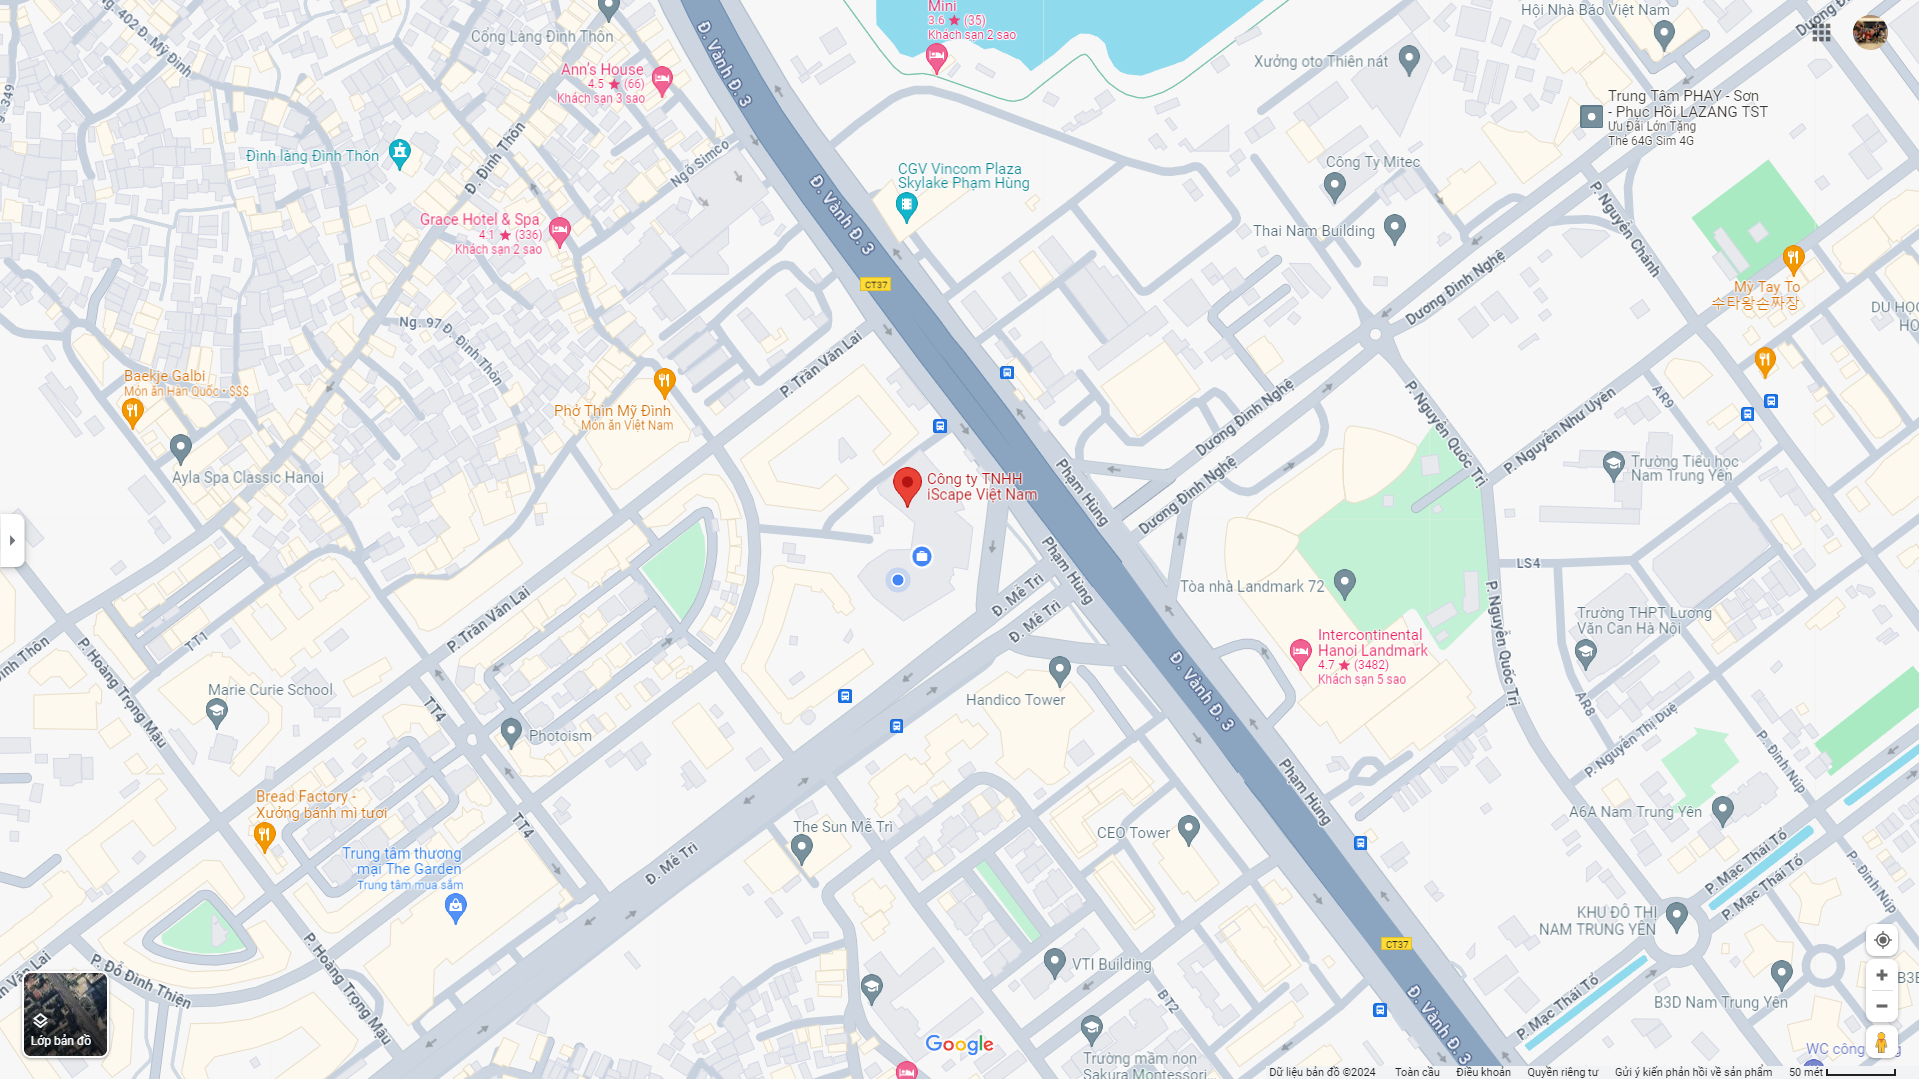
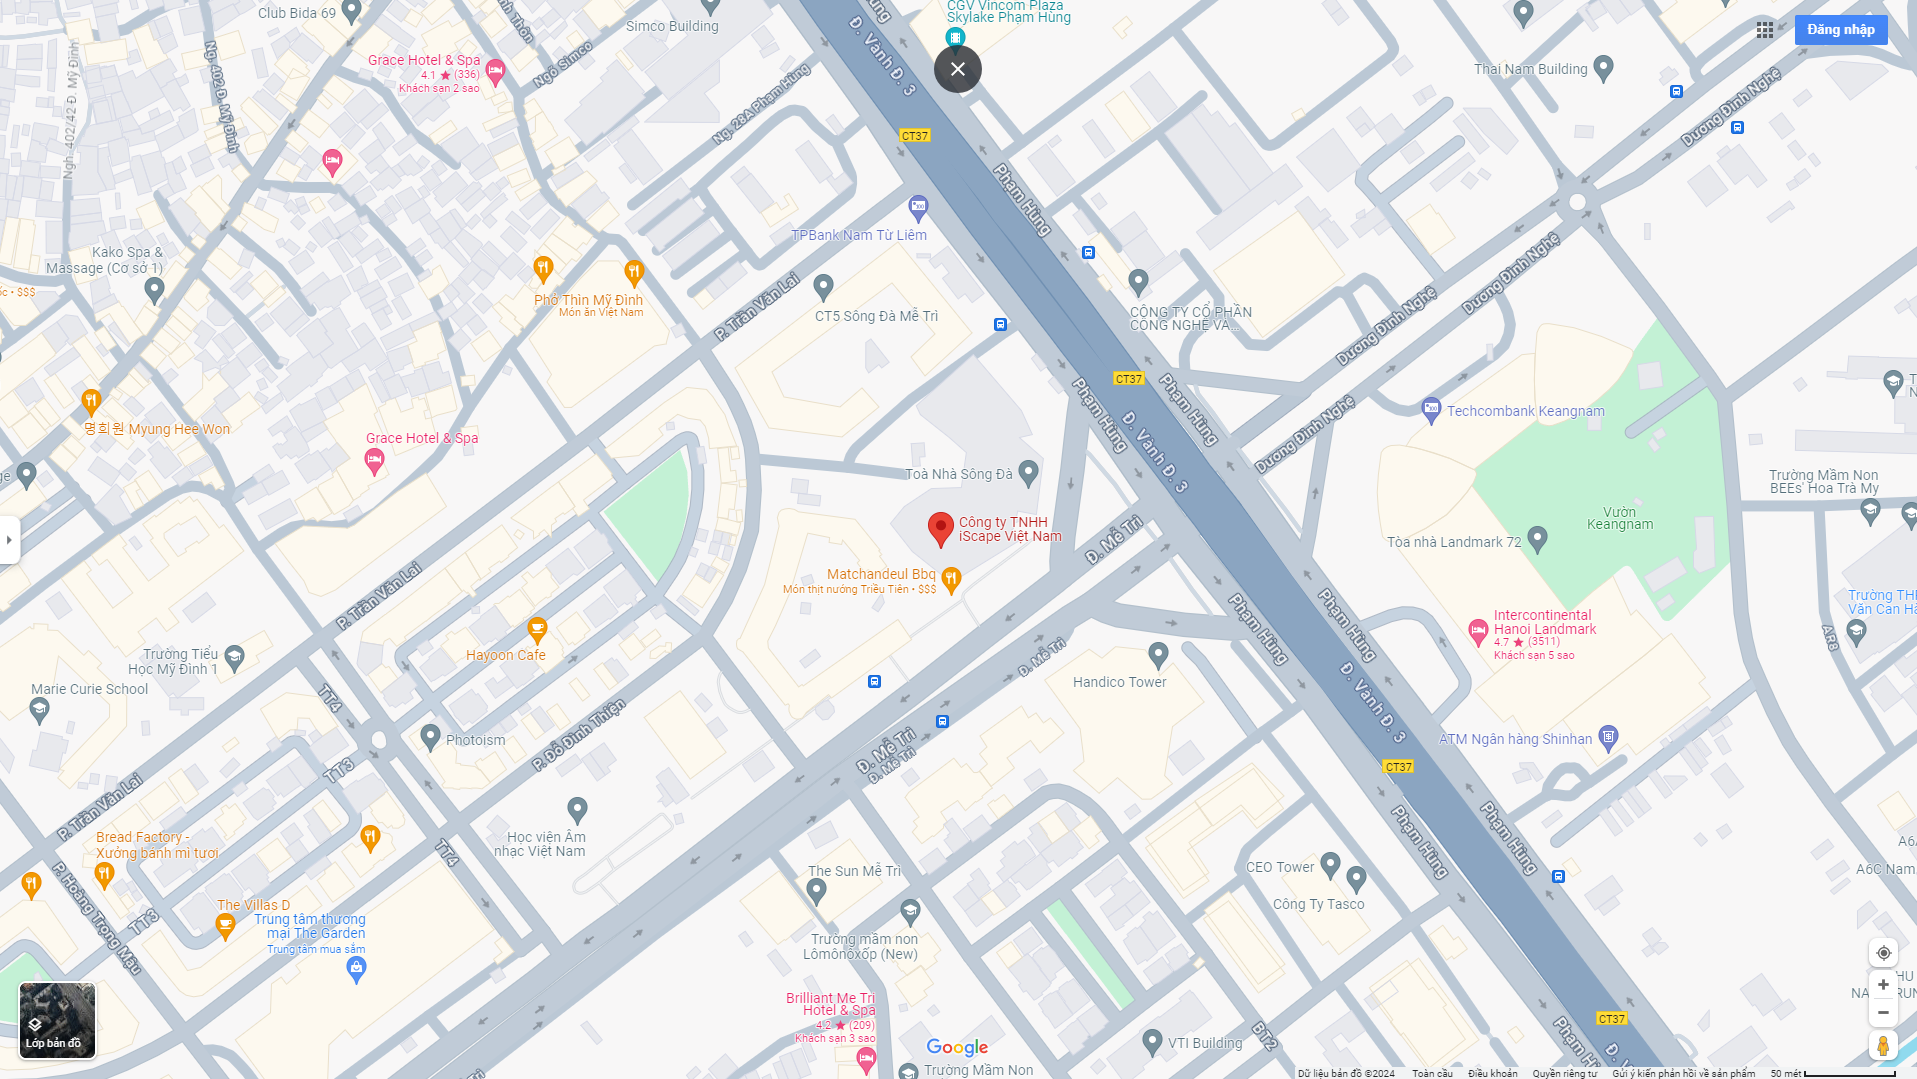
Lần 3

diff --git a/assets/css/style.css b/assets/css/style.css
@@ -98,7 +98,7 @@ img {
 .header {
   display: flex;
   height: 100vh;
-  background-image: url(/assets/img/header_1.jpg);
+  background-image: url(../img/header_1.jpg);
   background-size: cover;
   background-position: top;
   justify-content: center;
@@ -156,7 +156,7 @@ img {
 
 .service-bg {
   height: 70vh;
-  background-image: url(/assets/img/service_1.jpg);
+  background-image: url(../img/service_1.jpg);
   background-size: cover;
   background-position: 20% 35%;
 }
@@ -509,7 +509,7 @@ img {
 }
 .about-bg {
   height: 70vh;
-  background-image: url(/assets/img/service_1.jpg);
+  background-image: url(../img/service_1.jpg);
   background-size: cover;
   background-position: 20% 35%;
 }
@@ -714,9 +714,11 @@ img {
   border-color: var(--desc);
   border-style: solid;
   border-width: 0px 0px 1px 1px;
+  overflow: hidden;
 }
 
 .contact-add__img {
+  transform: scale(1.5);
   width: 100%;
   height: 100%;
   object-fit: cover;

diff --git a/contact.html b/contact.html
@@ -222,7 +222,7 @@
             <!-- maps -->
             <figure class="contact-map">
               <img
-                src="./assets/img/contact_1.png"
+                src="assets/img/contact_1.png"
                 alt=""
                 class="contact-add__img"
               />
